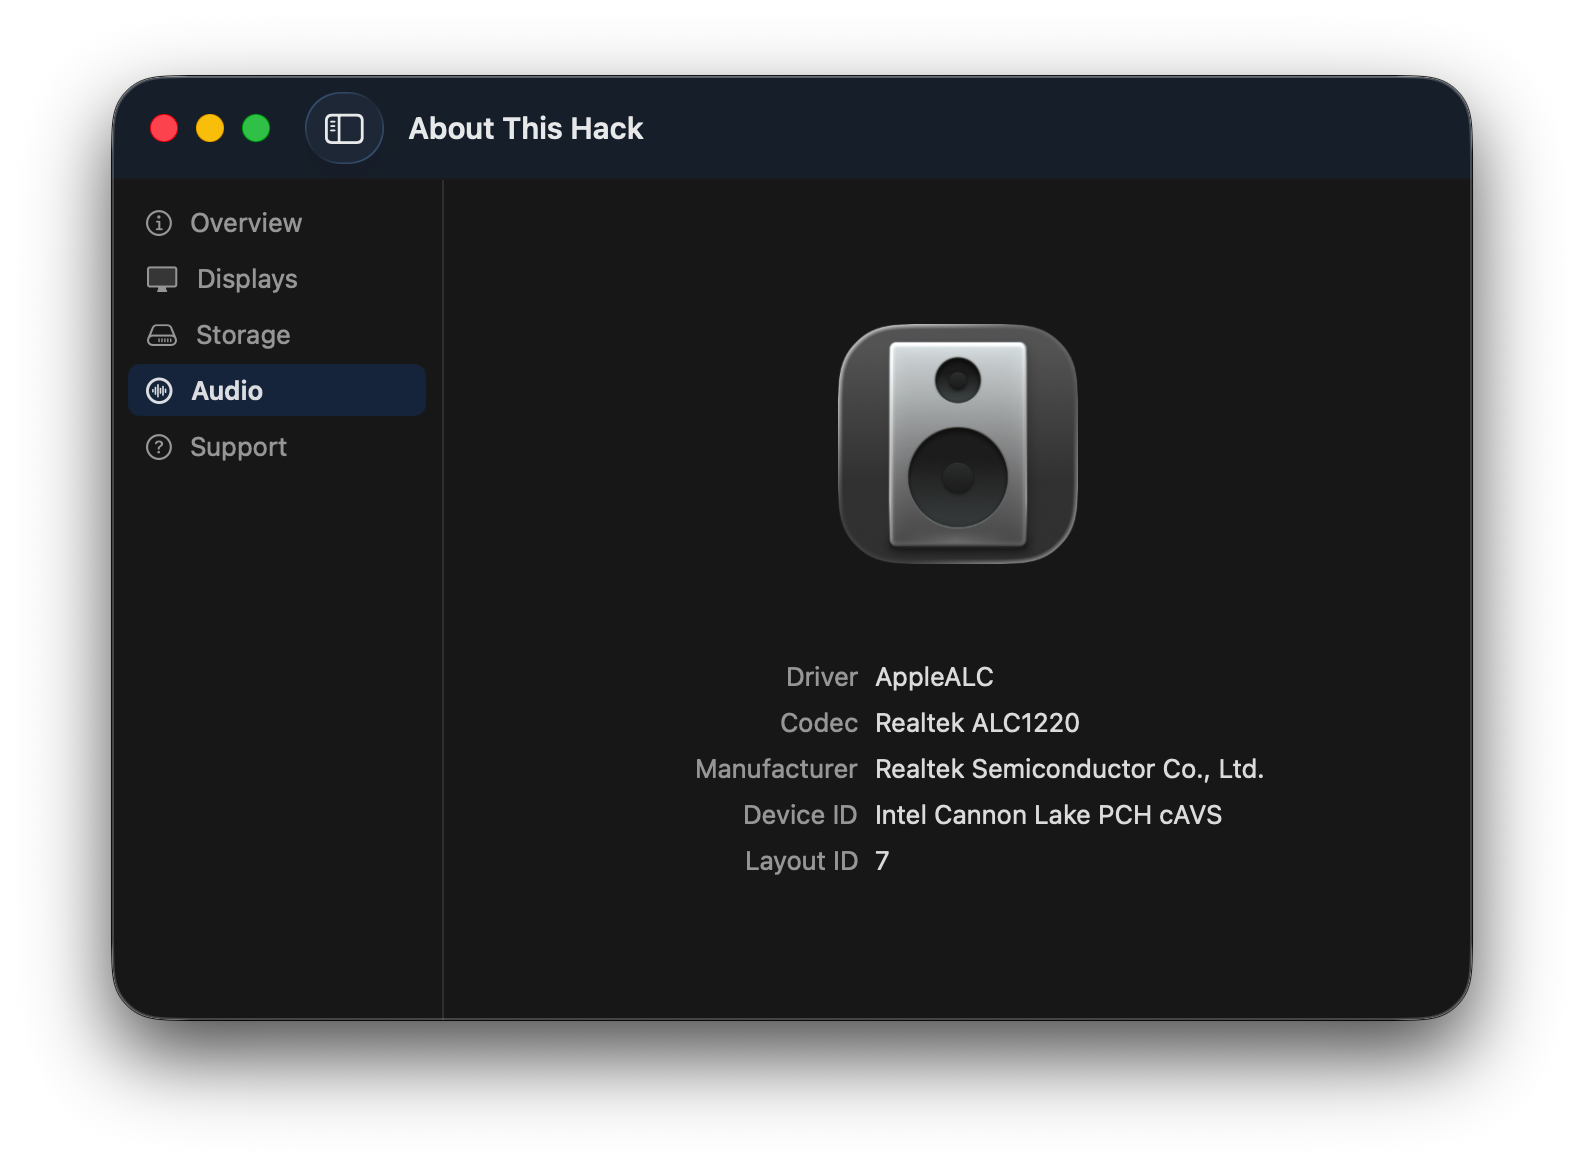
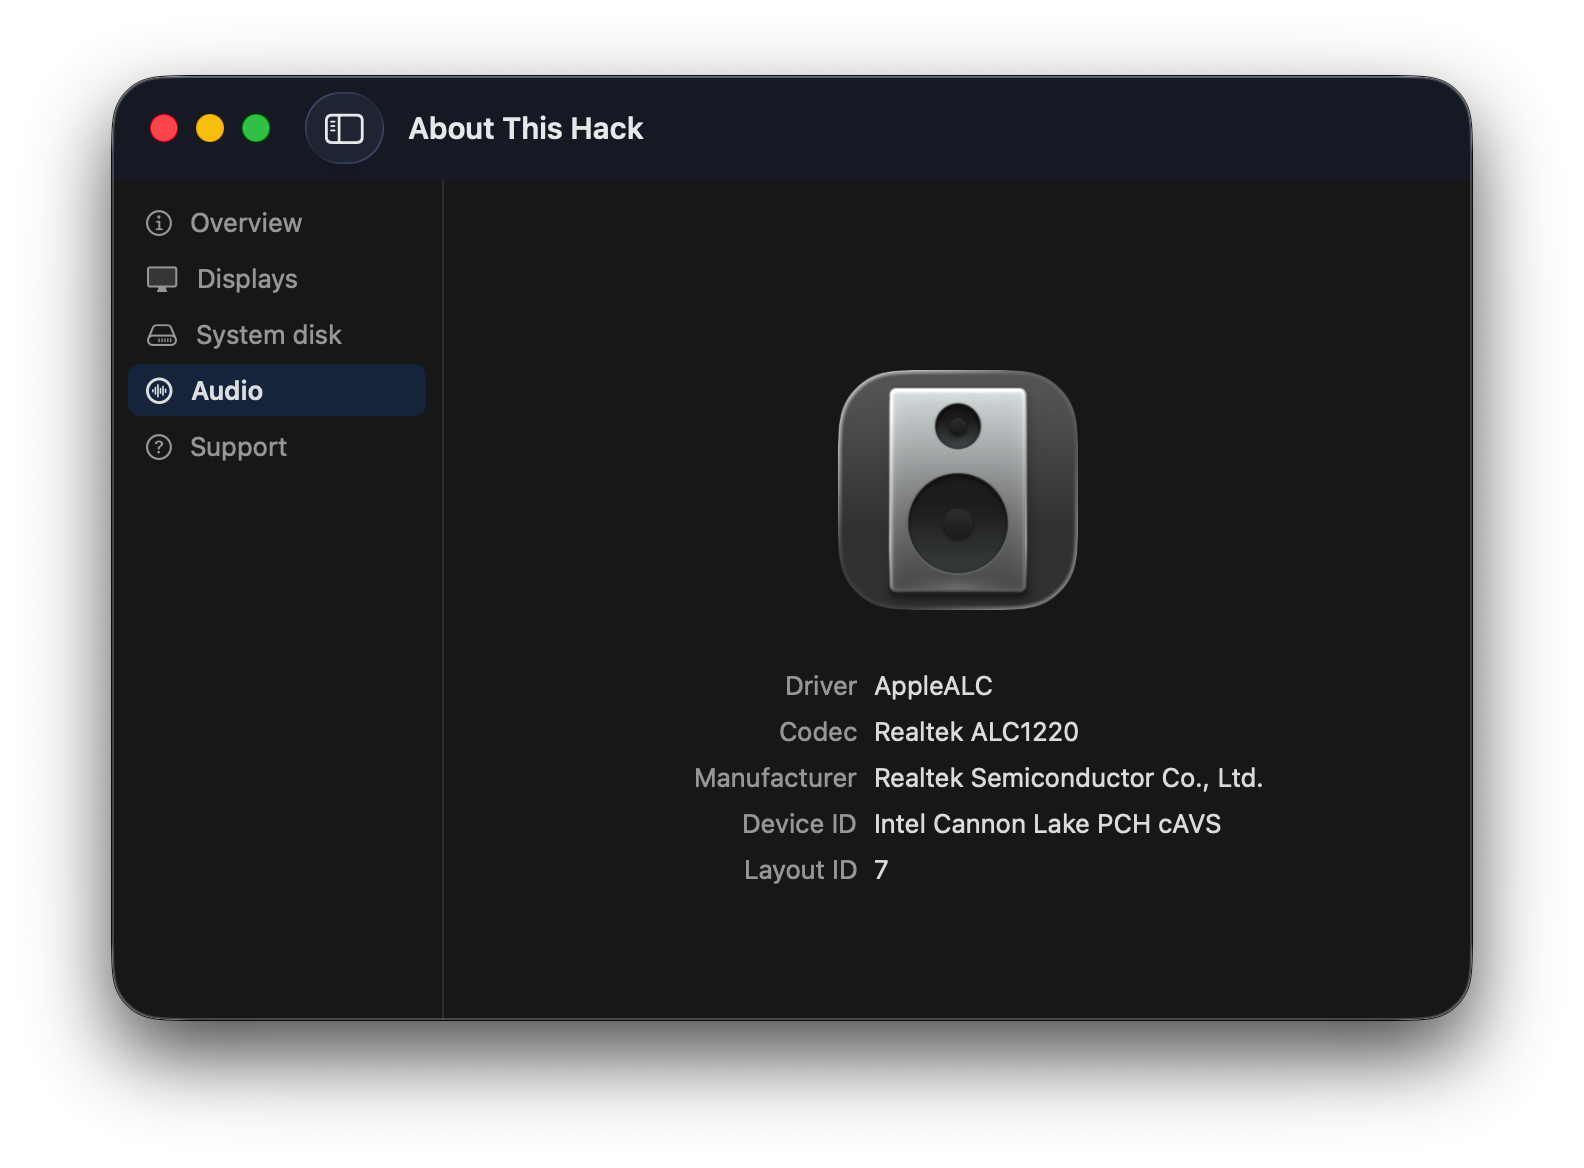
Update screenshots with System disk tab

Changed region(s): [[0.4331, 0.5548, 0.8043, 0.7705], [0.5259, 0.2774, 0.6806, 0.524], [0.1237, 0.2774, 0.2165, 0.3082]]

diff --git a/README.md b/README.md
@@ -55,9 +55,9 @@ Visualize your connected displays with their respective resolutions.
 
 | |
 | --- |
-| ![Overview](Images/Screenshots/Displaysx2.png) |
+| ![Overview](Images/Screenshots/Displays.png) |
 
-## Storage
+## System disk
 
 Get a clear picture of your startup disk, including name, available space, and disk type, all presented with an easy-to-read usage bar.
 
